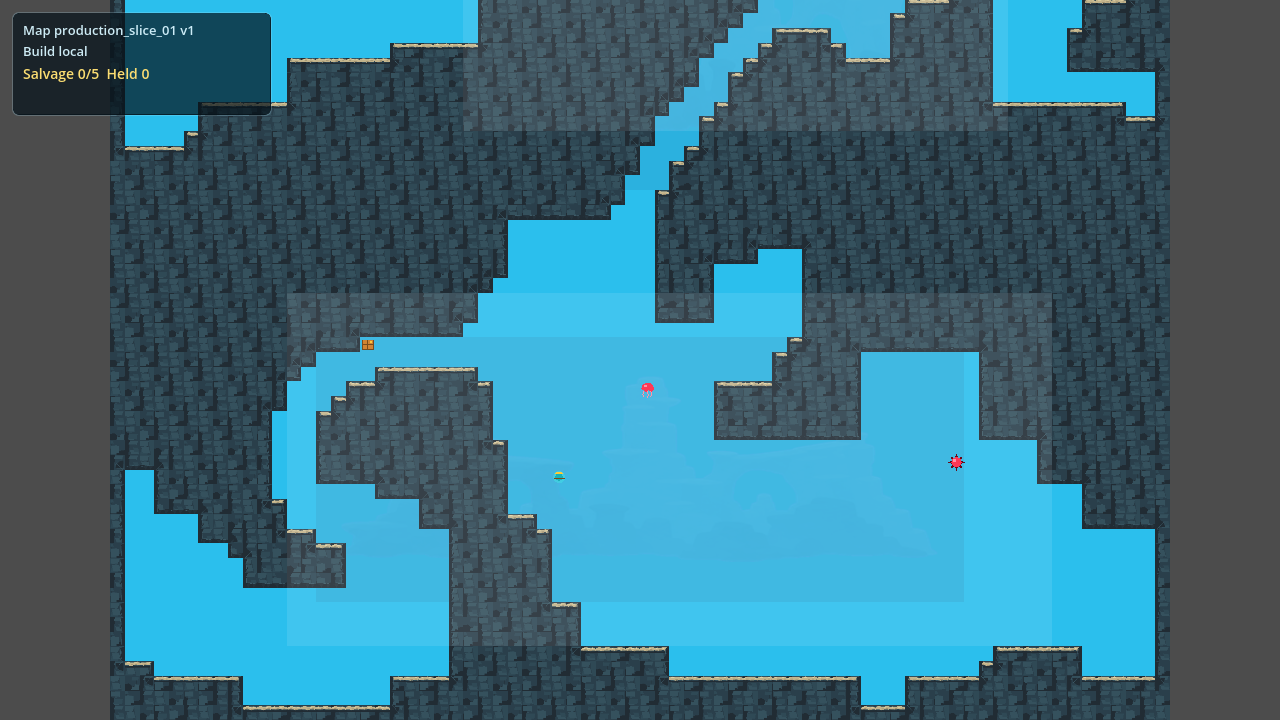
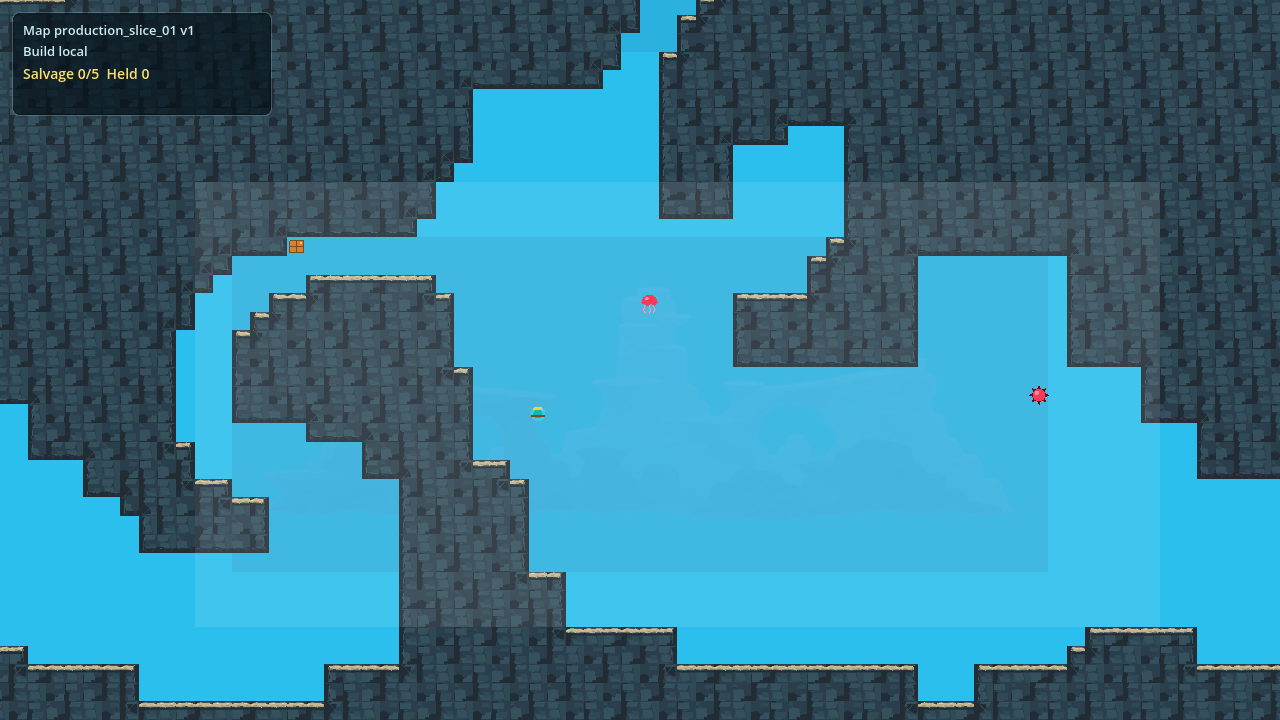
Tune production slice camera captures

diff --git a/tools/create_production_slice_map.py b/tools/create_production_slice_map.py
@@ -285,29 +285,43 @@ def build_map_data(source_map: dict) -> dict:
                 "id": "production_slice_overview",
                 "center_x": 36,
                 "center_y": 42,
-                "zoom": 0.27,
-                "intent": "Whole production-slice topology review.",
+                "zoom": 0.36,
+                "intent": "Broad production-slice context with reduced side border.",
             },
             {
                 "id": "production_slice_entry_shaft",
                 "center_x": 39,
-                "center_y": 14,
-                "zoom": 0.58,
-                "intent": "Boat entry, surface opening, and early descent review.",
+                "center_y": 11,
+                "zoom": 0.66,
+                "intent": "Boat entry, surface opening, and first descent read.",
+            },
+            {
+                "id": "production_slice_first_route_choice",
+                "center_x": 42,
+                "center_y": 25,
+                "zoom": 0.60,
+                "intent": "First route choice after the entry shaft, with nearby salvage and hazard.",
             },
             {
                 "id": "production_slice_central_crossing",
-                "center_x": 46,
-                "center_y": 34,
-                "zoom": 0.48,
+                "center_x": 48,
+                "center_y": 43,
+                "zoom": 0.58,
                 "intent": "Central branching, nearby salvage, and hazard pressure review.",
             },
             {
                 "id": "production_slice_lower_loop",
                 "center_x": 36,
                 "center_y": 66,
-                "zoom": 0.46,
+                "zoom": 0.58,
                 "intent": "Lower optional route and return-path readability review.",
+            },
+            {
+                "id": "production_slice_return_to_boat",
+                "center_x": 36,
+                "center_y": 18,
+                "zoom": 0.46,
+                "intent": "Return path context from first branch back to boat extraction.",
             },
         ],
         "review_questions": [

diff --git a/docs/current/PROJECT_CONTEXT.md b/docs/current/PROJECT_CONTEXT.md
@@ -135,7 +135,7 @@ python tools/check_map_parity.py
 Capture normal visual views:
 
 ```powershell
-& 'C:\Program Files\Godot\Godot_v4.7-stable_win64.exe\Godot_v4.7-stable_win64_console.exe' --path . --quit-after 10 --capture-camera-tests
+& 'C:\Program Files\Godot\Godot_v4.7-stable_win64.exe\Godot_v4.7-stable_win64_console.exe' --path . --quit-after 20 --capture-camera-tests
 ```
 
 Capture the organic tileset stress-test views:
@@ -167,9 +167,9 @@ Use GitHub Issues for meaningful feature, bug, workflow, tooling, and demo work.
 
 Current issue state as of 2026-07-05:
 
-- Open: [#38](https://github.com/joeypshell/oceangame2/issues/38) `Tune production slice camera framing and capture set`
 - Open: [#39](https://github.com/joeypshell/oceangame2/issues/39) `Prototype scoped expedition pressure for production slice`
 - Open: [#40](https://github.com/joeypshell/oceangame2/issues/40) `Select and author second production slice from full sketch`
+- Closed: #38 tuned production-slice camera framing and expanded the capture set
 - Closed: #37 debug/review marker meanings and capture route
 - Closed: #36 accepted production-slice visual baseline workflow
 - Closed: #35 readable boat-spawn entry and return visual
@@ -255,6 +255,7 @@ Recent important commits:
 - Normal preview uses first-pass readable salvage and hazard props instead of abstract marker shapes.
 - The source map/grid and entity review markers can be shown with `--show-debug-overlay`; dedicated production-slice debug captures are written with `--capture-production-slice-debug-map` to `visual_captures/production_slice_01_debug/`.
 - Debug marker roles are: cyan source grid, white route rectangles, amber boat/extraction outlines, green entry/spawn labels, yellow salvage diamonds, and red hazard squares.
+- `production_slice_01` now has six authored camera captures: overview, entry shaft, first route choice, central crossing, lower loop, and return-to-boat context. Use `--quit-after 20` when regenerating this set so every view is written.
 
 ## Recommended Next Work
 
@@ -279,9 +280,8 @@ Accepted constraints for the next batch:
 
 Recommended next order:
 
-1. [#38](https://github.com/joeypshell/oceangame2/issues/38) tunes production-slice camera framing and capture set.
-2. [#39](https://github.com/joeypshell/oceangame2/issues/39) adds one scoped pressure mechanic only after visual/source validation is stable.
-3. [#40](https://github.com/joeypshell/oceangame2/issues/40) selects a second production slice once the first slice workflow is accepted.
+1. [#39](https://github.com/joeypshell/oceangame2/issues/39) adds one scoped pressure mechanic only after visual/source validation is stable.
+2. [#40](https://github.com/joeypshell/oceangame2/issues/40) selects a second production slice once the first slice workflow is accepted.
 
 Keep new work small. If a task touches visual style, map topology, renderer behavior, and gameplay at once, split it into separate issues.
 

diff --git a/docs/current/TOOLING.md b/docs/current/TOOLING.md
@@ -189,7 +189,7 @@ Do not use `--headless` for screenshot capture on this local setup. Headless use
 Capture the current named camera test views:
 
 ```powershell
-& 'C:\Program Files\Godot\Godot_v4.7-stable_win64.exe\Godot_v4.7-stable_win64_console.exe' --path . --quit-after 10 --capture-camera-tests
+& 'C:\Program Files\Godot\Godot_v4.7-stable_win64.exe\Godot_v4.7-stable_win64_console.exe' --path . --quit-after 20 --capture-camera-tests
 ```
 
 This reads `camera_tests` from the default preview map, currently `maps/production_slice_01.greybox.json`, and writes PNGs to `visual_captures/latest/`.
@@ -230,15 +230,15 @@ This reads `camera_tests` from `maps/full_cave_sketch_01.greybox.json` and write
 Capture the first production slice:
 
 ```powershell
-& 'C:\Program Files\Godot\Godot_v4.7-stable_win64.exe\Godot_v4.7-stable_win64_console.exe' --path . --quit-after 10 --capture-production-slice-map
+& 'C:\Program Files\Godot\Godot_v4.7-stable_win64.exe\Godot_v4.7-stable_win64_console.exe' --path . --quit-after 20 --capture-production-slice-map
 ```
 
-This reads `camera_tests` from `maps/production_slice_01.greybox.json` and writes PNGs to `visual_captures/production_slice_01/`.
+This reads `camera_tests` from `maps/production_slice_01.greybox.json` and writes six PNGs to `visual_captures/production_slice_01/`: overview, entry shaft, first route choice, central crossing, lower loop, and return-to-boat context.
 
 Capture the first production slice with debug/review markers visible:
 
 ```powershell
-& 'C:\Program Files\Godot\Godot_v4.7-stable_win64.exe\Godot_v4.7-stable_win64_console.exe' --path . --quit-after 10 --capture-production-slice-debug-map
+& 'C:\Program Files\Godot\Godot_v4.7-stable_win64.exe\Godot_v4.7-stable_win64_console.exe' --path . --quit-after 20 --capture-production-slice-debug-map
 ```
 
 This writes PNGs to `visual_captures/production_slice_01_debug/`. The debug overlay uses cyan source grid, white route rectangles, amber boat/extraction outlines, green entry/spawn labels, yellow salvage diamonds, and red hazard squares. Normal production-slice captures stay terrain-first and should not be overwritten with debug views.
